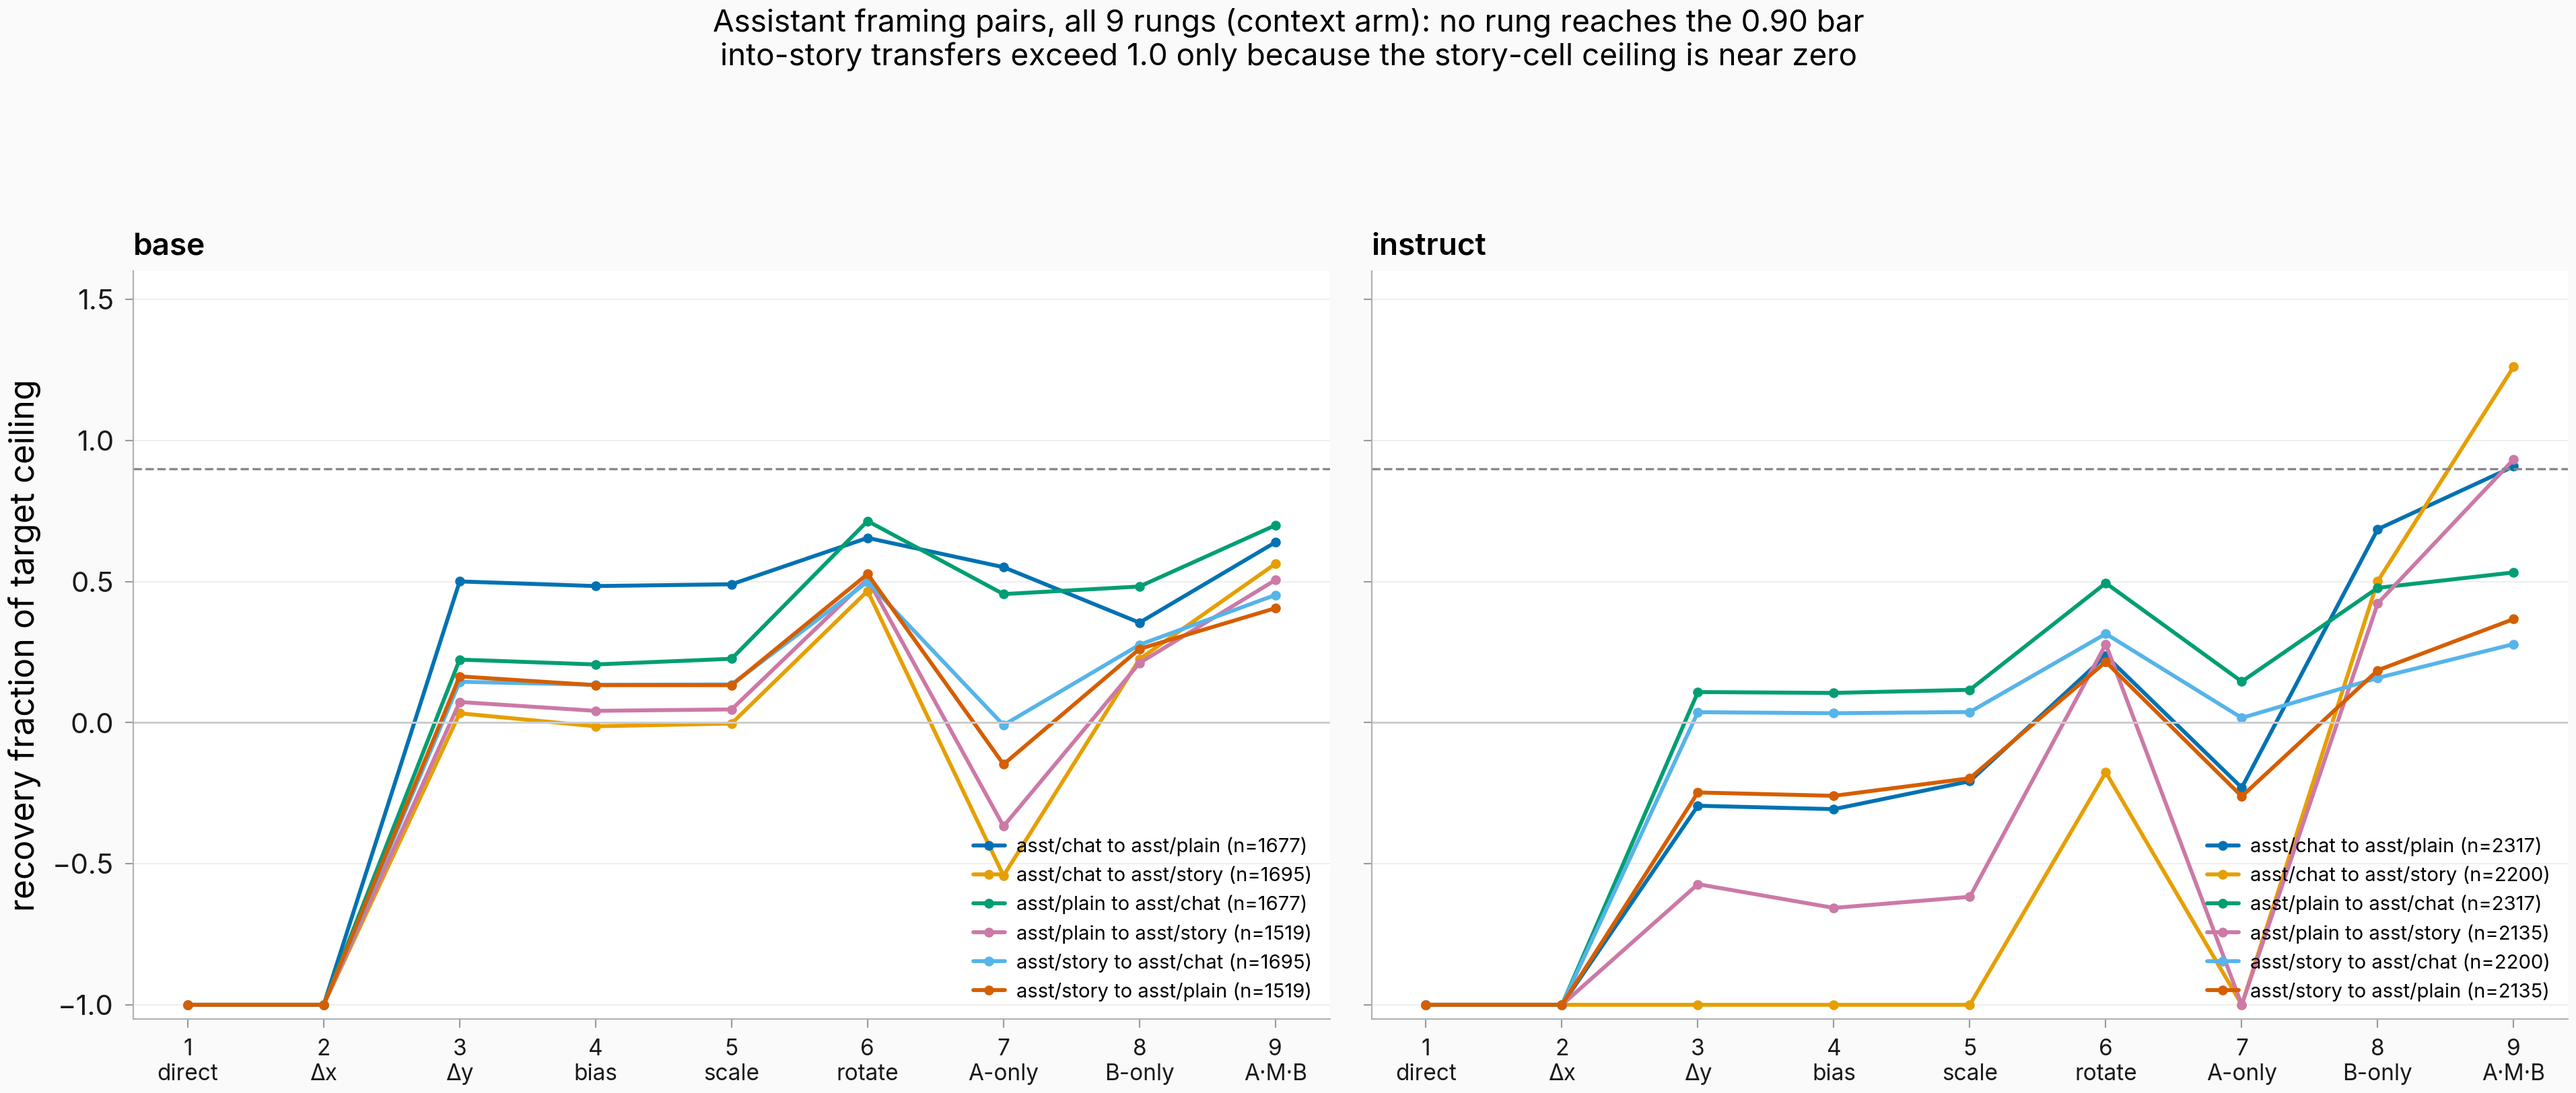
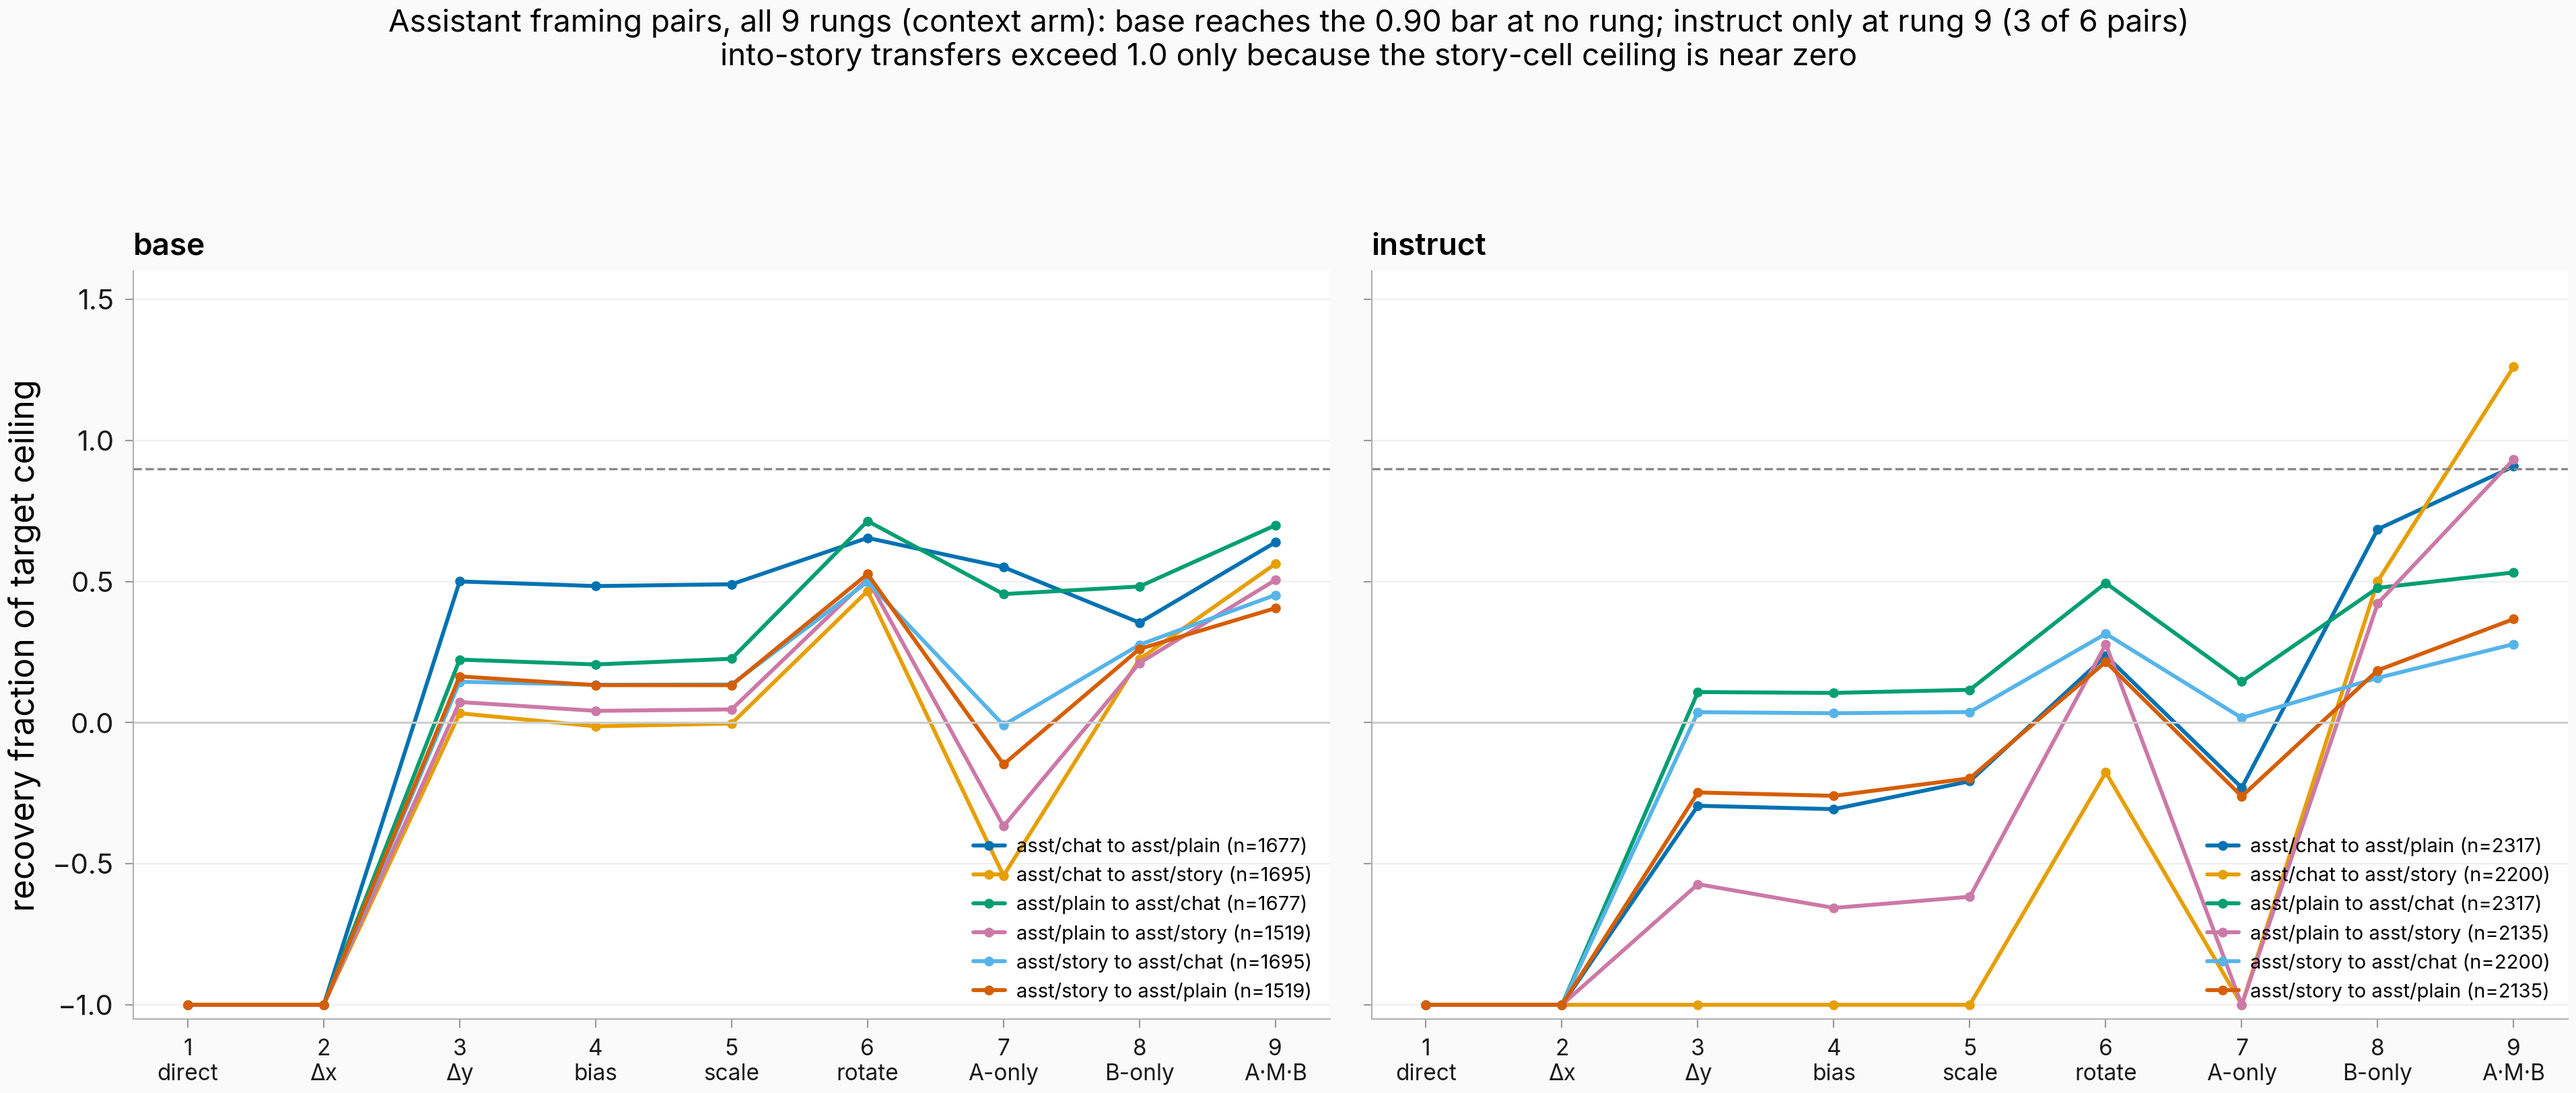
task #1689: analyzer r2 — fix fig7 title to true reconciliation counts (base 12/12 no-reconcile, instruct 7/12; 5 rung-9 reconciliations)

Changed region(s): [[0.1555, 0.0, 0.8396, 0.0308]]

diff --git a/scripts/issue1689_analyzer_figures.py b/scripts/issue1689_analyzer_figures.py
@@ -457,7 +457,8 @@ def fig7_assistant_framing(rows: list[dict]) -> None:
         ax.set_ylim(-1.05, 1.6)
     axes[0].set_ylabel("recovery fraction of target ceiling")
     fig.suptitle(
-        "Assistant framing pairs, all 9 rungs (context arm): no rung reaches the 0.90 bar\n"
+        "Assistant framing pairs, all 9 rungs (context arm): base reaches the 0.90 bar at no rung;"
+        " instruct only at rung 9 (3 of 6 pairs)\n"
         "into-story transfers exceed 1.0 only because the story-cell ceiling is near zero",
         fontsize=11,
     )
@@ -506,14 +507,24 @@ def fig8_provenance_duplication(rows: list[dict]) -> None:
                     for i in range(1, 10):
                         xs.append(np.clip(idx[k1][f"r2_{i}"], -1.2, 1.2))
                         ys.append(np.clip(idx[k2][f"r2_{i}"], -1.2, 1.2))
-        ax.scatter(xs, ys, s=30, marker=mk, color=pal[ci], alpha=0.75,
-                   label=f"{lab} ({len(xs)} rung values)", zorder=3)
+        ax.scatter(
+            xs,
+            ys,
+            s=30,
+            marker=mk,
+            color=pal[ci],
+            alpha=0.75,
+            label=f"{lab} ({len(xs)} rung values)",
+            zorder=3,
+        )
     ax.plot([-1.2, 1.2], [-1.2, 1.2], color="#999999", lw=0.8, ls="--")
     ax.set_xlabel("rung R$^2$, forward direction (A to B)")
     ax.set_ylabel("rung R$^2$, reverse direction (B to A)")
-    ax.set_title("User-provenance pairs, prefix arm: forward vs reverse rung R$^2$\n"
-                 "haiku-vs-on-policy pairs are identical in both directions (stored data duplicated)",
-                 fontsize=10)
+    ax.set_title(
+        "User-provenance pairs, prefix arm: forward vs reverse rung R$^2$\n"
+        "haiku-vs-on-policy pairs are identical in both directions (stored data duplicated)",
+        fontsize=10,
+    )
     ax.legend(fontsize=8, loc="upper left")
     savefig_paper(fig, "fig8_provenance_duplication", dir=FIGDIR)
     plt.close(fig)
